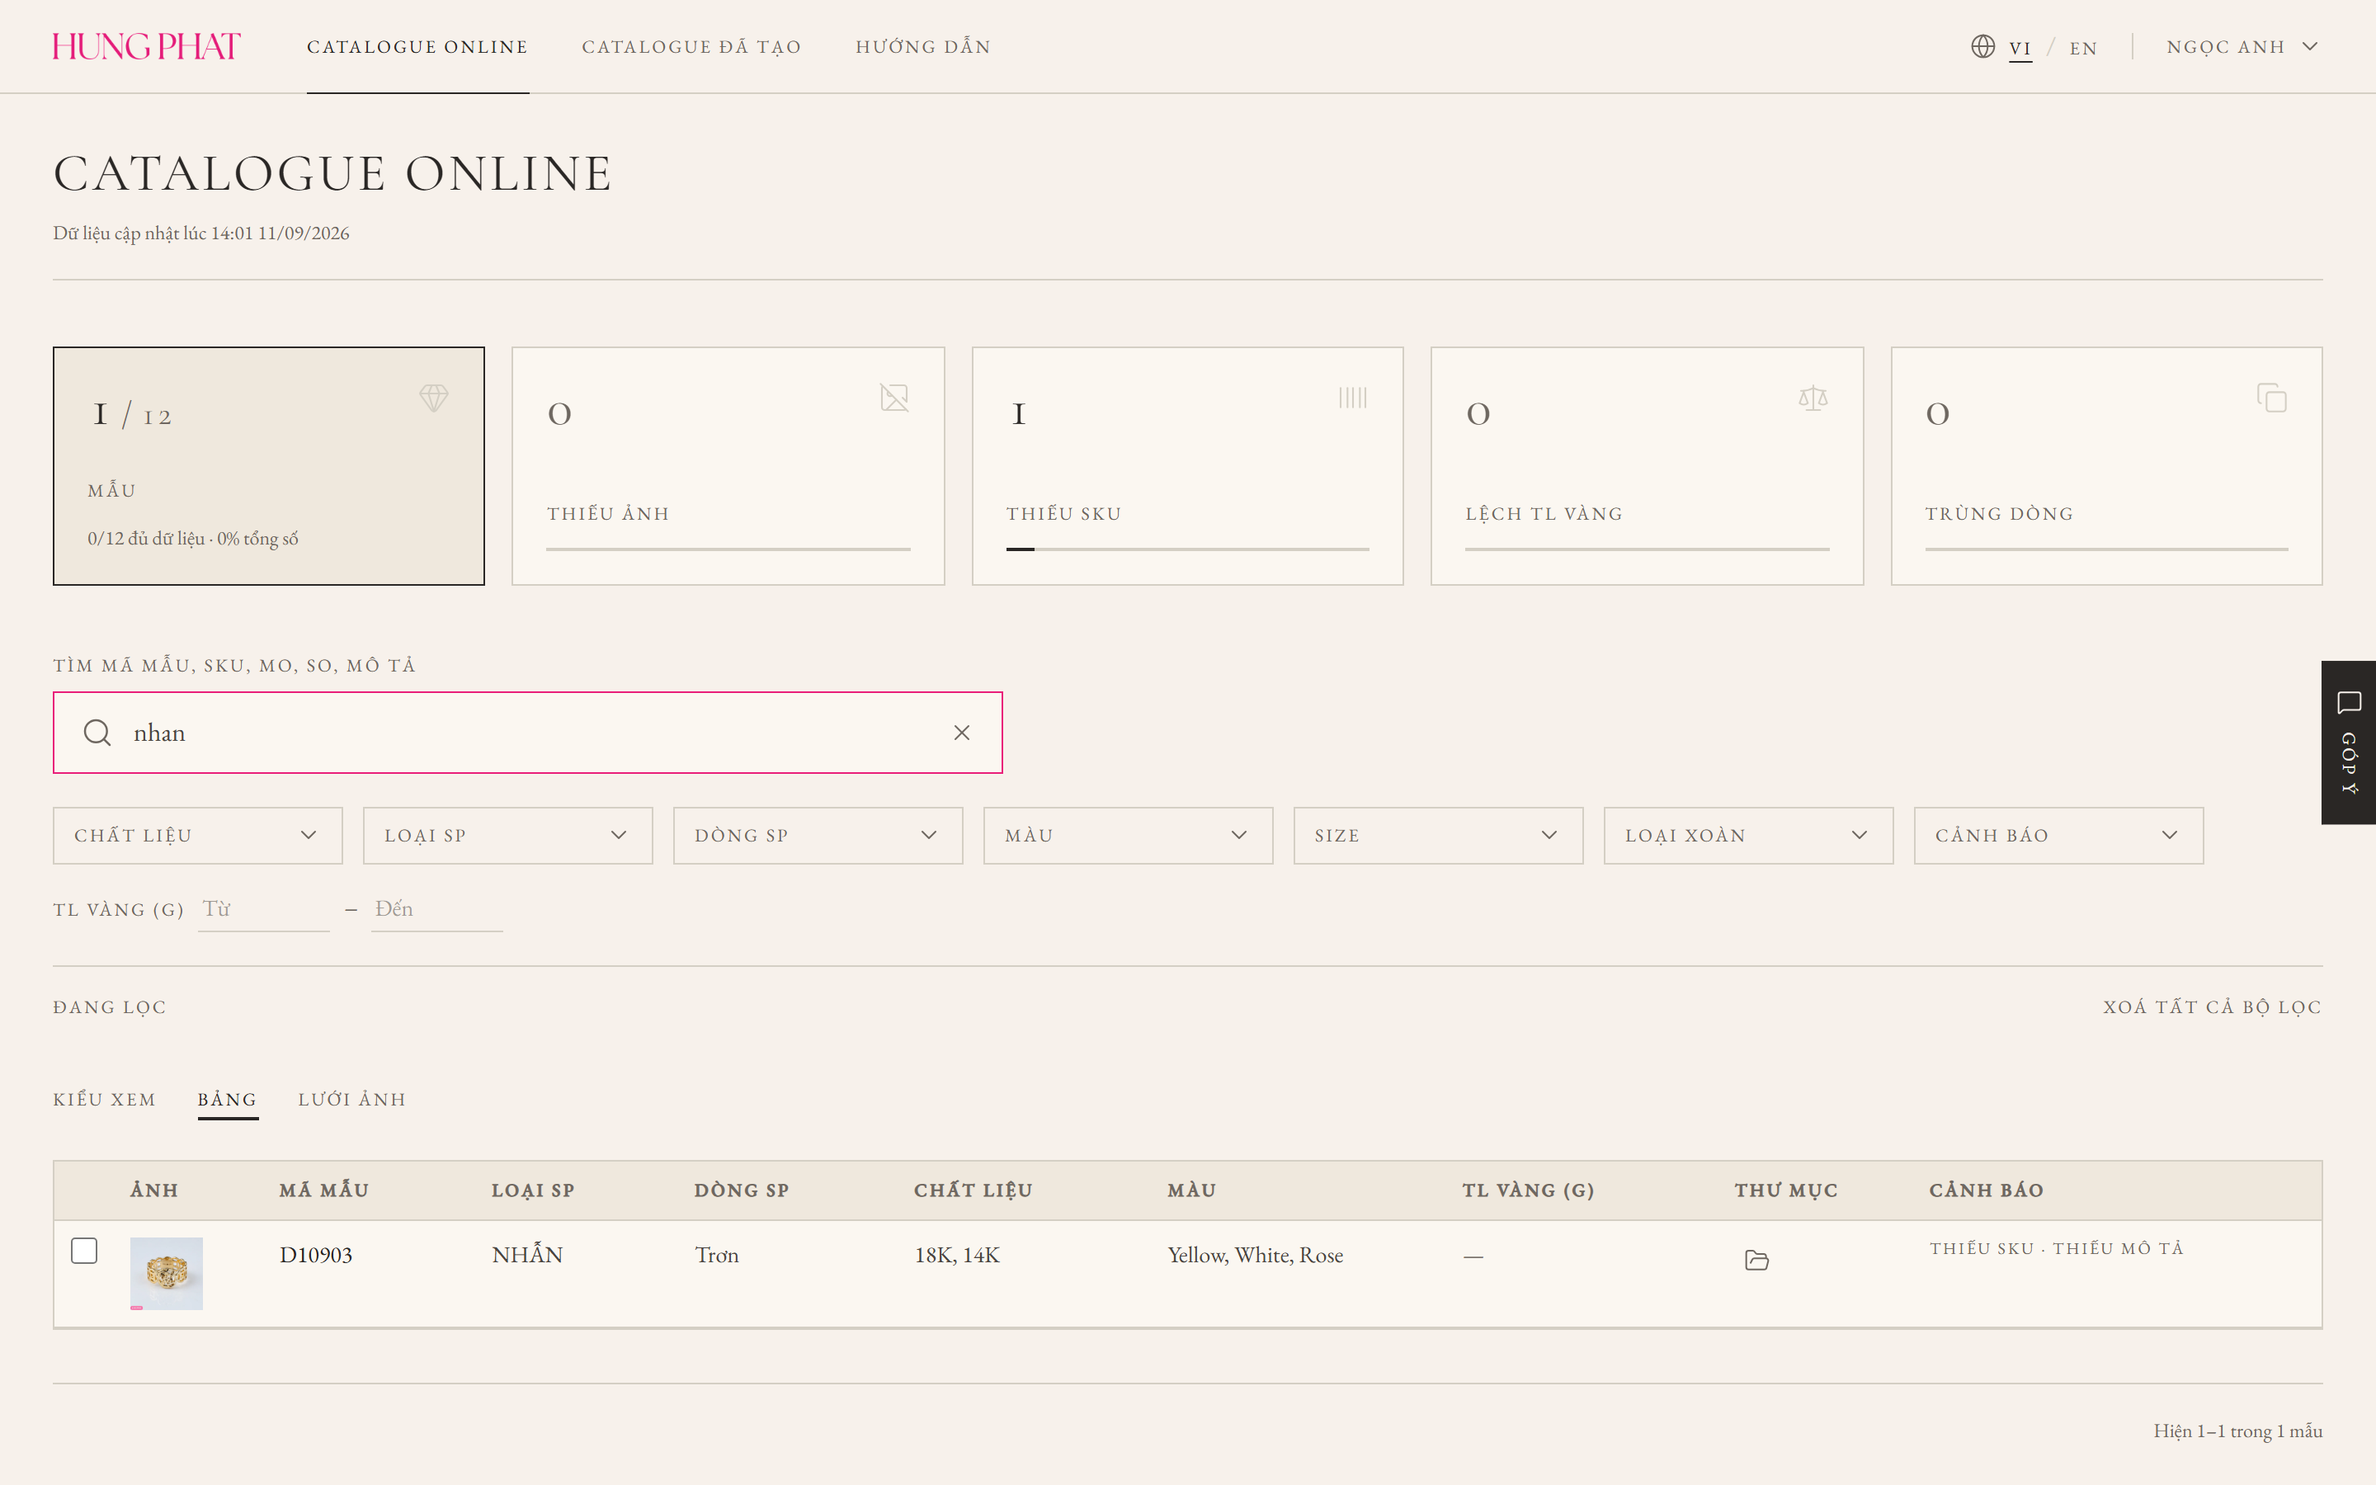
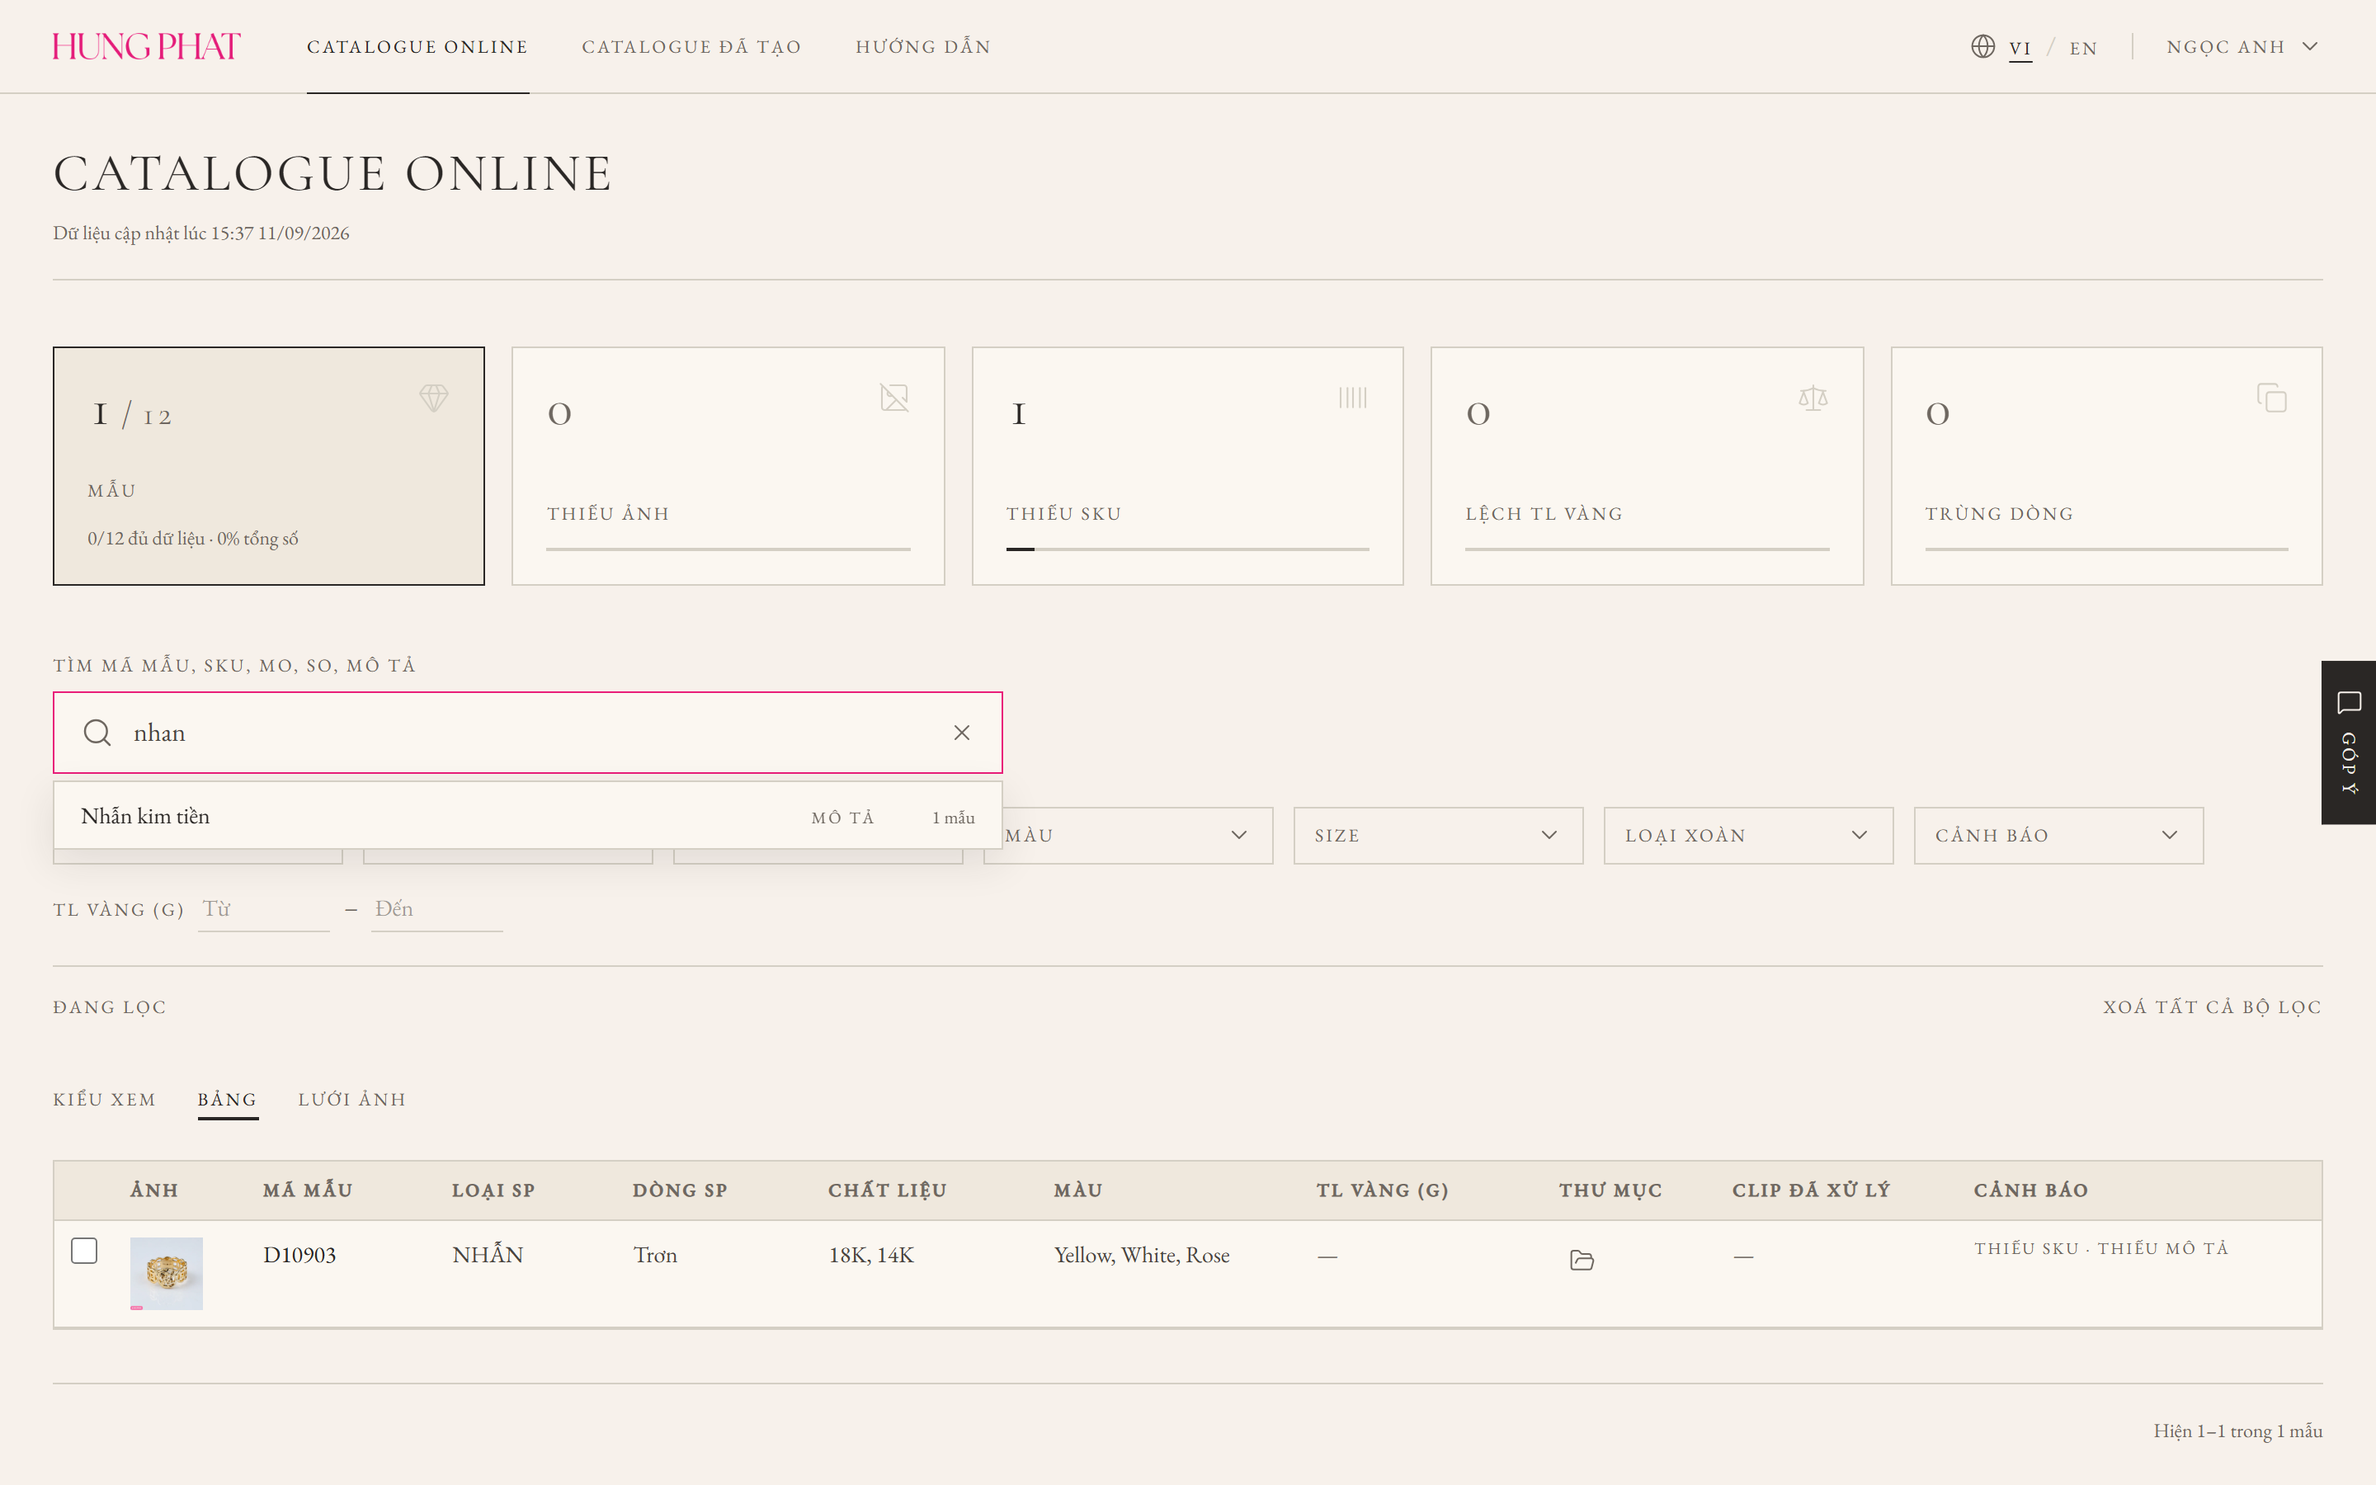
feat(bảng mẫu): cột "Clip đã xử lý" — tên clip và liên kết mở trên Drive
Anh yêu cầu hiện cột video đã xử lý (cột R của tab Catalogue-OL) trên bảng mẫu.

- Apps Script vốn đã gửi nguyên cả dòng, kể cả cột R, nên không phải sửa hay
  dán lại DongBo.gs: chỉ bộ đọc bảng nhận thêm cột "Clip đã xử lý" (chip Drive
  hay hyperlink đều đọc, tiêu đề gõ không dấu cũng nhận).
- Ô hiện icon video + tên tệp y như chip trên bảng tính ("C10068.mp4"). Bấm là
  mở clip trên Google Drive ở tab mới, không bật ngăn chi tiết. Chỉ nhân viên
  xem được — tệp nằm trên Shared Drive chỉ chia sẻ trong công ty.
- Mở tab mới chứ không nhúng trình phát: trình duyệt chặn cookie bên thứ ba
  (Safari) thì khung nhúng Drive báo "cần quyền" dù người xem có quyền.
- Bảng tính chưa có cột R thì cột tự ẩn như các cột rỗng khác.
- Không đụng tới catalogue gửi khách: MucCatalogue giữ nguyên 7 trường (video
  gửi khách đang hoãn theo lời anh).
- Ảnh hướng dẫn bước 2 và 3 chụp lại vì bảng có thêm cột.

Đọc thử bảng tính thật trong kho: 12 dòng, 9 dòng có clip, tên tệp khớp đúng
cột R. Kiểm trên máy: 9 liên kết đúng tên, trỏ tới tệp Drive, mở tab mới; 3 dòng
không có clip hiện gạch ngang; bấm ô khác trong dòng vẫn mở chi tiết; chế độ lưới
ảnh vẫn chạy.

diff --git a/tests/modules/sheet/catalogue.mapper.test.ts b/tests/modules/sheet/catalogue.mapper.test.ts
@@ -167,6 +167,52 @@ describe("anhXaBang", () => {
     });
   });
 
+  describe("cot Clip da xu ly (cot R, 11/09/2026)", () => {
+    // Moi dong mot tep .mp4, thuong gan bang chip Drive. Cot KHONG bat buoc:
+    // ban sao bang tinh chua them cot van doc duoc, chi la khong dong nao co clip.
+    const URI_CLIP = "https://drive.google.com/file/d/1ClipDaXuLy000000000000000000/view?usp=drive_link";
+    const chipClip: OTho = {
+      formattedValue: "C10068.mp4",
+      chipRuns: [{ chip: { richLinkProperties: { mimeType: "video/mp4", uri: URI_CLIP } } }],
+    };
+
+    /** bangMau them MOT cot o cuoi; o du lieu dat theo chi so cua tieu de moi. */
+    function themCot(tieuDe: string, o: OTho): OTho[][] {
+      const tieuDeMoi = [...bangMau[1], { formattedValue: tieuDe }];
+      // Dong du lieu co the ngan hon hang tieu de (Sheets bo o trong cuoi dong),
+      // nen gan theo chi so chu khong noi vao cuoi dong.
+      const h = [...bangMau[2]];
+      h[tieuDeMoi.length - 1] = o;
+      return [bangMau[0], tieuDeMoi, h];
+    }
+
+    it("doc ten tep va lien ket tu chip", () => {
+      const [d] = anhXaBang(themCot("Clip đã xử lý", chipClip));
+      expect(d.tenClipDaXuLy).toBe("C10068.mp4");
+      expect(d.urlClipDaXuLy).toBe(URI_CLIP);
+    });
+
+    it("o dung hyperlink thuong cung doc duoc", () => {
+      const [d] = anhXaBang(themCot("Clip đã xử lý", { formattedValue: "L10370.mp4", hyperlink: URI_CLIP }));
+      expect(d.urlClipDaXuLy).toBe(URI_CLIP);
+      expect(d.tenClipDaXuLy).toBe("L10370.mp4");
+    });
+
+    it("tieu de go khong dau van nhan", () => {
+      expect(anhXaBang(themCot("CLIP DA XU LY", chipClip))[0].urlClipDaXuLy).toBe(URI_CLIP);
+    });
+
+    it("o trong thi ca ten lan lien ket deu null", () => {
+      const [d] = anhXaBang(themCot("Clip đã xử lý", {}));
+      expect(d.urlClipDaXuLy).toBeNull();
+      expect(d.tenClipDaXuLy).toBeNull();
+    });
+
+    it("bang chua co cot thi khong dong nao co clip", () => {
+      expect(ds.every((d) => d.urlClipDaXuLy === null && d.tenClipDaXuLy === null)).toBe(true);
+    });
+  });
+
   it("uu tien cot SIZE, trong thi tach tu mo ta", () => {
     expect(ds[0].size).toBe("10");   // co trong cot
     expect(ds[1].size).toBe("18VN"); // chi co trong mo ta

diff --git a/src/app/admin/catalogue-sheet/clip-da-xu-ly.tsx b/src/app/admin/catalogue-sheet/clip-da-xu-ly.tsx
@@ -1,0 +1,47 @@
+import { Video } from "lucide-react";
+import type { DongCatalogue } from "@/modules/sheet/catalogue.mapper";
+import type { BoChu } from "@/messages";
+
+/**
+ * O "Clip da xu ly" trong bang: icon video + ten tep, giong chip tren bang tinh
+ * de nguoi dung nhan ra ngay.
+ *
+ * Hien CA TEN chu khong chi icon nhu cot Thu muc: ten tep mang ma mau
+ * ("C10068.mp4"), va mau nao co clip, mau nao chua la thu nguoi xem bang can
+ * quet nhanh.
+ *
+ * Bam la mo clip tren Google Drive o tab moi. Chi nhan vien xem duoc: tep nam
+ * tren Shared Drive chi chia se trong cong ty. Tab moi chu khong nhung trinh
+ * phat vao trang — trinh duyet chan cookie ben thu ba (Safari) thi khung nhung
+ * hien "can quyen truy cap" du nguoi xem co quyen.
+ */
+export function ClipDaXuLy({ d, t }: { d: DongCatalogue; t: BoChu }) {
+  const ten = d.tenClipDaXuLy;
+
+  if (d.urlClipDaXuLy === null) {
+    // O co chu nhung khong co lien ket (go tay ten tep): van hien ten, de nguoi
+    // xem biet mau nay co clip ma chua gan duoc.
+    return ten === null
+      ? <span className="text-hp-muted">{t.catalogue_sheet.o_trong}</span>
+      : <span className="block max-w-[10rem] truncate" title={ten}>{ten}</span>;
+  }
+
+  // Ten truy cap bat dau bang dung chu dang hien tren man hinh, roi moi den
+  // hanh dong — nguoi dung trinh doc man hinh goi lien ket bang chinh chu ho thay.
+  const nhan = ten ? `${ten} — ${t.catalogue_sheet.mo_clip}` : t.catalogue_sheet.mo_clip;
+  return (
+    <a
+      href={d.urlClipDaXuLy}
+      target="_blank"
+      rel="noreferrer"
+      title={nhan}
+      aria-label={nhan}
+      className="inline-flex max-w-[10rem] items-center gap-1.5 text-hp-body
+                 underline-offset-4 transition-colors duration-150
+                 hover:text-hp-ink hover:underline"
+    >
+      <Video aria-hidden strokeWidth={1.5} className="h-4 w-4 shrink-0 text-hp-muted" />
+      <span className="truncate">{ten ?? t.catalogue_sheet.cot_clip}</span>
+    </a>
+  );
+}

diff --git a/src/modules/sheet/catalogue.mapper.ts b/src/modules/sheet/catalogue.mapper.ts
@@ -49,6 +49,13 @@ export type DongCatalogue = {
   /** Cot "Source clip tho": thu muc video quay tho. */
   urlClipTho: string | null;
   /**
+   * Cot "Clip da xu ly" (cot R): MOT tep video .mp4 da dung xong, thuong gan
+   * bang chip Drive. Giu ca ten hien tren o ("C10068.mp4") — do la thu nguoi
+   * dung nhan ra tren bang tinh — lan lien ket de mo clip.
+   */
+  urlClipDaXuLy: string | null;
+  tenClipDaXuLy: string | null;
+  /**
    * Hai cot mo ta bang chu cua nguoi ban hang: "Dây mân côi", "Nhẫn band xoàn
    * lab"... Day la NGON NGU NGUOI TA GO khi tim, chu khong phai ma hang — nen
    * chung phai nam trong vung tim kiem.
@@ -110,6 +117,8 @@ const COT = {
   // the la chip hay hyperlink nhu cot tren.
   anhConcept: { ten: "Hình raw - concept", batBuoc: false, nhan: ["hình raw - concept"] },
   clipTho:    { ten: "Source clip thô",    batBuoc: false, nhan: ["source clip thô", "source clip tho"] },
+  // Cot R, clip dung xong cua tung mau (11/09/2026). Chip hay hyperlink deu doc.
+  clipDaXuLy: { ten: "Clip đã xử lý",      batBuoc: false, nhan: ["clip đã xử lý", "clip da xu ly"] },
   // Hai cot mo ta. Nguoi dung bao tim "day man coi" khong ra gi (09/09/2026):
   // ca hai cot deu chua bao gio duoc doc vao he thong.
   moTa1:      { ten: "Mô tả 1",            batBuoc: false, nhan: ["mô tả 1"] },
@@ -234,6 +243,8 @@ export function anhXaBang(hang: OTho[][]): DongCatalogue[] {
       chatLieu: chu(lay(h, "chatLieu")),
       urlAnhConcept: lienKet(lay(h, "anhConcept")),
       urlClipTho: lienKet(lay(h, "clipTho")),
+      urlClipDaXuLy: lienKet(lay(h, "clipDaXuLy")),
+      tenClipDaXuLy: chu(lay(h, "clipDaXuLy")),
       moTa1: chu(lay(h, "moTa1")),
       moTa2: chu(lay(h, "moTa2")),
       loaiXoan: chiTiet === null ? null

diff --git a/src/app/admin/catalogue-sheet/bang.tsx b/src/app/admin/catalogue-sheet/bang.tsx
@@ -4,6 +4,7 @@ import { DauCungMau, OTich } from "./chon-mau";
 import { layChu } from "@/messages/may-chu";
 import { nhanCo } from "./nhan-co";
 import { LienKetDrive } from "./lien-ket-drive";
+import { ClipDaXuLy } from "./clip-da-xu-ly";
 import { AnhTai } from "@/ui/anh-tai";
 import { DauCot } from "./dau-cot";
 import { dongLapMa, type CotAnDuoc, type KhoaSap, type SapXep } from "@/modules/sheet/catalogue.view";
@@ -107,6 +108,7 @@ export async function BangCatalogue({
             )}
             {hien("oChu") && <th className={O_TIEU_DE}>{t.catalogue_sheet.cot_o_chu}</th>}
             {hien("thuMuc") && <th className={O_TIEU_DE}>{t.catalogue_sheet.cot_thu_muc}</th>}
+            {hien("clip") && <th className={O_TIEU_DE}>{t.catalogue_sheet.cot_clip}</th>}
             <th className={O_TIEU_DE}>{t.catalogue_sheet.cot_canh_bao}</th>
           </tr>
         </thead>
@@ -164,6 +166,11 @@ export async function BangCatalogue({
               {hien("thuMuc") && (
                 <td className={O_GON}>
                   <LienKetDrive d={d} t={t} />
+                </td>
+              )}
+              {hien("clip") && (
+                <td className={O_GON}>
+                  <ClipDaXuLy d={d} t={t} />
                 </td>
               )}
 

diff --git a/src/modules/sheet/catalogue.view.ts b/src/modules/sheet/catalogue.view.ts
@@ -636,7 +636,7 @@ export function sapXepDanhSach(ds: DongCatalogue[], sap: SapXep): DongCatalogue[
  * Tinh tren TOAN BO bang chu khong theo bo loc dang bat: cot bien mat rooi hien
  * lai theo tung lan go tim thi bang nhay lien tuc.
  */
-export const COT_AN_DUOC = ["sku", "so", "mo", "chiTiet", "size", "oChu", "thuMuc"] as const;
+export const COT_AN_DUOC = ["sku", "so", "mo", "chiTiet", "size", "oChu", "thuMuc", "clip"] as const;
 export type CotAnDuoc = (typeof COT_AN_DUOC)[number];
 
 const LAY_COT: Record<CotAnDuoc, (d: DongCatalogue) => unknown> = {
@@ -647,6 +647,7 @@ const LAY_COT: Record<CotAnDuoc, (d: DongCatalogue) => unknown> = {
   size: (d) => d.size,
   oChu: (d) => d.oChu,
   thuMuc: (d) => d.urlThuMuc ?? d.urlAnhConcept ?? d.urlClipTho,
+  clip: (d) => d.urlClipDaXuLy ?? d.tenClipDaXuLy,
 };
 
 export function cotRong(ds: DongCatalogue[]): Set<CotAnDuoc> {

diff --git a/tests/modules/catalogue-share/chia-se.model.test.ts b/tests/modules/catalogue-share/chia-se.model.test.ts
@@ -191,8 +191,8 @@ describe("nhieu dong cung mot ma mau", () => {
     dongSheet: 1, sku: null, maMau: "C10045", mo: null, so: null, dongSp: null,
     loaiSp: null, mau: null, oChu: null, chiTiet: null, chatLieu: null,
     loaiXoan: null, tlVang: null, size: null, fileIdAnh: null, urlThuMuc: null,
-    idThuMuc: null, urlAnhConcept: null, urlClipTho: null, moTa1: null,
-    moTa2: null, co: [], ...v,
+    idThuMuc: null, urlAnhConcept: null, urlClipTho: null, urlClipDaXuLy: null,
+    tenClipDaXuLy: null, moTa1: null, moTa2: null, co: [], ...v,
   });
   const anh = (n: number) =>
     Array.from({ length: n }, (_, i) => ({ fileId: `f${i}`, ten: `${i}.jpg` }));

diff --git a/tests/modules/sheet/catalogue.view.test.ts b/tests/modules/sheet/catalogue.view.test.ts
@@ -588,6 +588,15 @@ describe("cot rong", () => {
   it("danh sach rong khi khong co dong nao thi coi la rong het", () => {
     expect(cotRong([]).size).toBe(COT_AN_DUOC.length);
   });
+
+  it("cot Clip da xu ly an khi khong dong nao co clip, hien khi co mot dong", () => {
+    // Ban sao bang tinh chua them cot R khong duoc bay ra mot cot gach ngang.
+    expect(cotRong(ds).has("clip")).toBe(true);
+    const coClip: DongCatalogue = {
+      ...ds[0], urlClipDaXuLy: "https://drive.google.com/file/d/x/view", tenClipDaXuLy: "C10068.mp4",
+    };
+    expect(cotRong([...ds, coClip]).has("clip")).toBe(false);
+  });
 });
 
 describe("dong lap mot ma mau", () => {

diff --git a/tests/modules/sheet/anh-dai-dien.test.ts b/tests/modules/sheet/anh-dai-dien.test.ts
@@ -7,7 +7,8 @@ function dong(v: Partial<DongCatalogue>): DongCatalogue {
     dongSheet: 3, sku: null, maMau: "N10145", mo: null, so: null, dongSp: null, loaiSp: null,
     mau: null, oChu: null, chiTiet: null, chatLieu: null, loaiXoan: null, tlVang: null,
     size: null, fileIdAnh: "anh-cot-hinh", urlThuMuc: null, idThuMuc: "q1",
-    urlAnhConcept: null, urlClipTho: null, moTa1: null, moTa2: null, co: [], ...v,
+    urlAnhConcept: null, urlClipTho: null, urlClipDaXuLy: null, tenClipDaXuLy: null,
+    moTa1: null, moTa2: null, co: [], ...v,
   };
 }
 

diff --git a/src/messages/vi.ts b/src/messages/vi.ts
@@ -317,6 +317,8 @@ export const vi = {
     cot_mau: "Màu",
     cot_o_chu: "Ổ chủ",
     cot_thu_muc: "Thư mục",
+    cot_clip: "Clip đã xử lý",
+    mo_clip: "Mở clip trên Google Drive",
     chua_co_ma_mau: "— Chưa có mã mẫu —",
     anh_chua_co_ma_mau: "Ảnh sản phẩm chưa có mã mẫu",
     size_nhan: "Size",

diff --git a/src/messages/en.ts b/src/messages/en.ts
@@ -311,6 +311,8 @@ export const en: BoChu = {
     cot_mau: "Colour",
     cot_o_chu: "Centre stone",
     cot_thu_muc: "Folder",
+    cot_clip: "Edited clip",
+    mo_clip: "Open the clip in Google Drive",
     chua_co_ma_mau: "— No model code —",
     anh_chua_co_ma_mau: "Product image without a model code",
     size_nhan: "Size",
